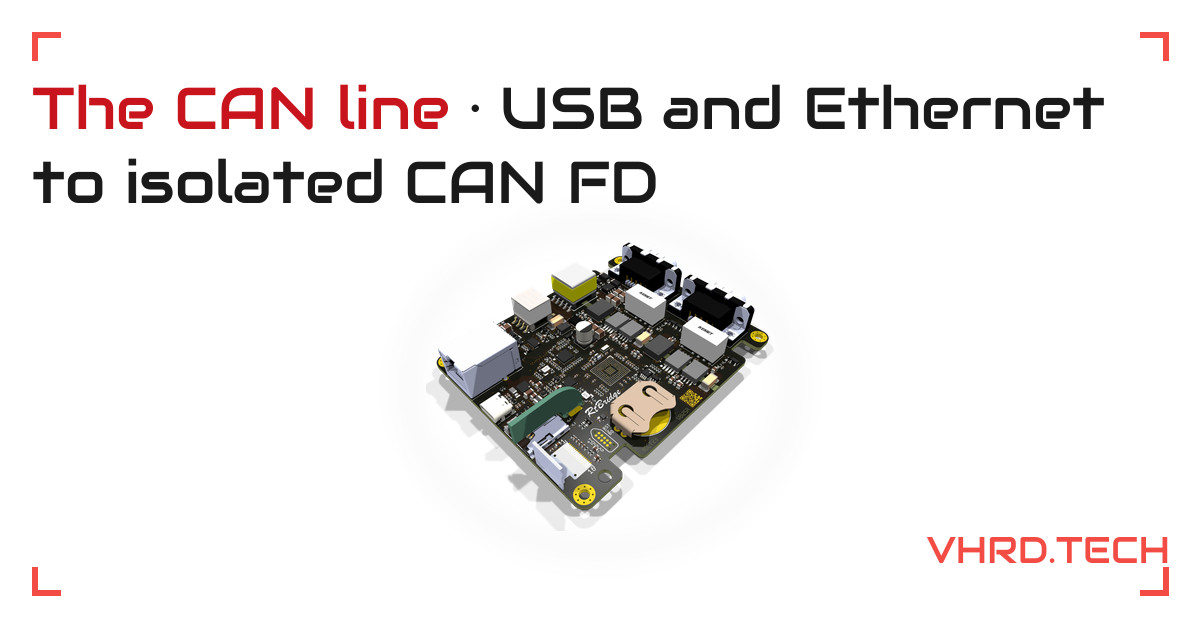
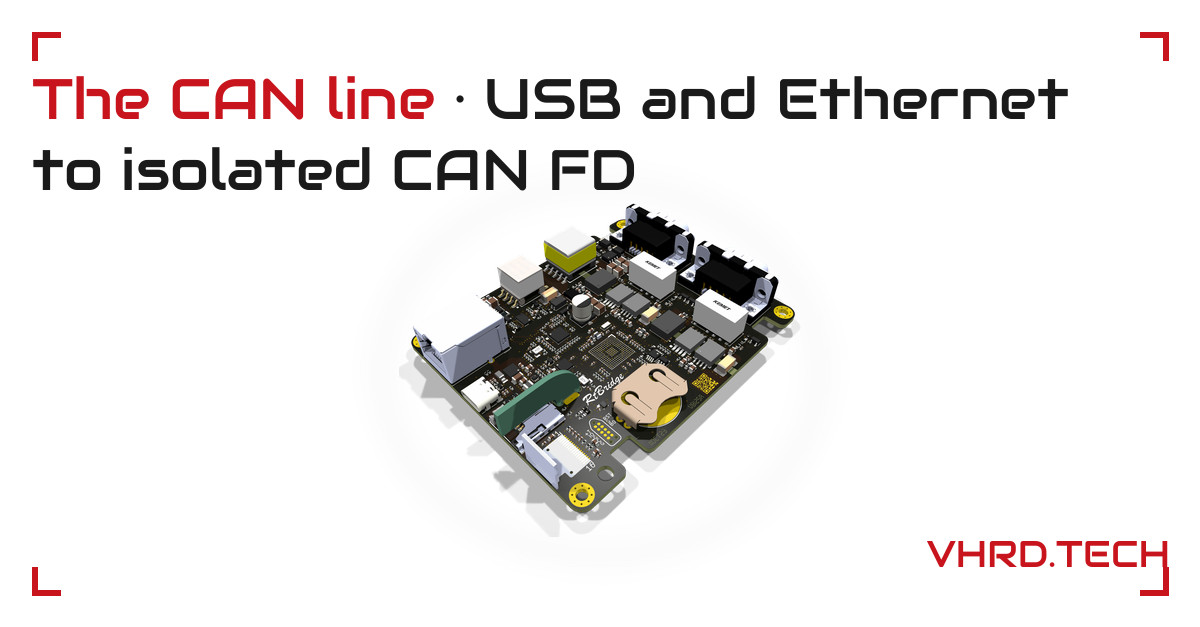
Share images, round 5: one red per image, board fills its own band
- One red per image, not two side by side: corners, wordmark and the
  headline's product name are all vhrd_brand's light --accent
  (#c8141c) on the JPEG, its dark value (#f24c44) on the PNG, instead
  of the name always in the light red regardless of which card it's
  on.
- The board now fills the actual space between the headline and the
  wordmark, not a fixed band sized for the longest headline on every
  page: fit_headline() measures each headline's own wrapped ink
  height, so a one-line headline (/software) leaves the board
  noticeably bigger instead of an empty gap below it. Every image's
  board grows over the previous pass (about 11-16% for the two-line
  headlines, 40% for /software's one-liner), while a still-clearly-
  visible gap stays between the headline and the board.
- The margins that clear the corner marks' own legs are trimmed to
  their safe minimum, to give the board as much of the frame's
  interior as the containment rules from the last two passes allow.

diff --git a/tools/og_images.py b/tools/og_images.py
@@ -60,10 +60,12 @@ BUDGET_KB = 1024
 JPEG_QUALITY = 90  # no subsampling (4:4:4) and not progressive, so a scraper that reads only the first bytes of
 # a progressive JPEG (or one that chokes on 4:2:0 chroma) still gets the whole, sharp image
 
-RED = (242, 76, 68, 255)  # vhrd_brand dark.red (#f24c44): the corner marks and the wordmark only, never text
-TEXT_RED = (0xc8, 0x14, 0x1c, 255)  # vhrd_brand --vhrd-red / light.accent (#c8141c): the headline's product
-# name, on every image alike (Roman, round 5, "one more round" pass, 6 Nov 2026) — a different red from the
-# corners' and wordmark's #f24c44, which stays theirs only.
+# One red per image, not two side by side: on the JPEG (white) everything red — corners, wordmark, the
+# headline's product name — is vhrd_brand's light-theme --vhrd-red/--accent; on the PNG (dark backgrounds)
+# everything red is the dark-theme --accent, already lightened for contrast there (Roman, round 5, "two reds"
+# pass, 6 Nov 2026).
+LIGHT_RED = (0xc8, 0x14, 0x1c, 255)  # --vhrd-red / light.accent (#c8141c)
+DARK_RED = (242, 76, 68, 255)  # dark.accent (#f24c44)
 INK = (26, 26, 26, 255)  # vhrd_brand light.text (#1a1a1a): the JPEG headline's body colour, solid, on white
 WHITE = (255, 255, 255, 255)  # the PNG headline's body colour, solid, with a soft dark shadow (SHADOW_* below)
 GLOW = (255, 255, 255, 16)  # a faint halo behind the board, just enough that a dark board's edge doesn't vanish
@@ -75,32 +77,34 @@ MARK_LEN, MARK_W = 28, 5  # the corner marks' leg length and thickness, like .fi
 # round 5, 6 Nov 2026).
 FRAME_MARGIN = 32
 # Everything — headline, board, wordmark — stays inside the corner-marked frame with its own margin, clear of
-# the corner marks' own legs too. The bottom margin is a little tighter than the top's: there is no headline
-# text to clear down there, only the wordmark's own row.
+# the corner marks' own legs too: both trimmed to the minimum that still clears those legs, to leave the board
+# as much of the frame's interior as possible (Roman, round 5, "board bigger" pass, 6 Nov 2026).
 CONTENT_PAD_X = 16
-CONTENT_PAD_Y_TOP = MARK_LEN + 10
-CONTENT_PAD_Y_BOTTOM = MARK_LEN + 4
+CONTENT_PAD_Y_TOP = MARK_LEN + 2
+CONTENT_PAD_Y_BOTTOM = MARK_LEN
 
 # The headline: Audiowide (the wordmark's face), its capital letters' ink flush with the left corners' own
 # outer edge (not an extra inset — "the D of Donguru" sits on the imaginary line the corner marks' vertical
-# strokes draw), wrapped to at most two lines at HEAD_TARGET_CAP ("no small print"; every headline below fits
-# two lines there, so there is no further shrink floor this round). The words up to " · " (the product
-# headlines below) are set in TEXT_RED; the rest is the body colour (AGENTS.md "Conventions", Roman, round 5,
-# 6 Nov 2026).
-HEAD_TARGET_CAP = 42
-HEAD_MIN_CAP = 40  # a floor, not reached by any headline below at the current width; kept for a future one
+# strokes draw), wrapped to at most two lines at HEAD_TARGET_CAP, the floor from "no small print" (every
+# headline below fits two lines there). The words up to " · " (the product headlines below) are set in that
+# image's one red (LIGHT_RED or DARK_RED above); the rest is the body colour (AGENTS.md "Conventions", Roman,
+# round 5, 6 Nov 2026).
+HEAD_TARGET_CAP = 40
+HEAD_MIN_CAP = 40
 HEAD_MAX_LINES = 2
 HEAD_LINE_PITCH_FACTOR = 1.25
-HEAD_BLOCK_H = 140  # reserved above the board, fixed across pages so the board sits at the same height on each
-HEAD_BOARD_GAP = 32  # a clearly visible gap: the headline sat right on top of the board before this (Roman,
-# round 5, "one more round" pass, 6 Nov 2026)
+HEAD_BLOCK_BUFFER = 4  # added to each headline's own measured ink height (fit_headline) rather than
+# reserving one worst-case height on every page: a one-line headline (/software) leaves the board that much
+# more room below it, instead of a dead gap (Roman, round 5, "board bigger" pass, 6 Nov 2026).
+HEAD_BOARD_GAP = 22  # a clearly visible gap (the headline sat right on top of the board two passes ago, at
+# 16): less than the 32 the previous pass used, traded for a bigger board, but still twice that original gap.
 
 # The board's own bounding box (the render's margin is transparent) is scaled to fit this box, centred
 # horizontally on the canvas and vertically in the band below the headline and above the wordmark, well inside
 # the HxH square a square crop keeps.
 SAFE_W = 580
-WORDMARK_H = 26  # 1.3x the wordmark's previous 20px (Roman, round 5, "one more round" pass, 6 Nov 2026)
-BOARD_WORDMARK_GAP = 6
+WORDMARK_H = 26  # 1.3x the wordmark's original 20px (Roman, round 5, 6 Nov 2026)
+BOARD_WORDMARK_GAP = 4
 # A soft dark shadow behind the white PNG headline (not an outline, which read as hollow), so it still reads on
 # a light background once a platform composites the transparency away.
 SHADOW_COLOR = (8, 8, 10, 170)
@@ -170,18 +174,18 @@ def board_render(board_dir, view):
     return im.crop(box)
 
 
-def wordmark_png(width, height):
-    """The VHRD.TECH wordmark (static/img/wordmark.svg), recoloured to a single red that reads on white and on
-    black alike, rasterised to the given pixel size with a transparent background, then cropped to its own ink
-    (not the raster canvas, which may carry a little padding) so the caller can align its right edge exactly."""
+def wordmark_png(width, height, red):
+    """The VHRD.TECH wordmark (static/img/wordmark.svg), recoloured to this image's one red, rasterised to the
+    given pixel size with a transparent background, then cropped to its own ink (not the raster canvas, which
+    may carry a little padding) so the caller can align its right edge exactly."""
     svg = (ROOT / "static/img/wordmark.svg").read_text()
-    svg = re.sub(r'fill="#[0-9a-fA-F]{6}"', f'fill="rgb{RED[:3]}"', svg)
+    svg = re.sub(r'fill="#[0-9a-fA-F]{6}"', f'fill="rgb{red[:3]}"', svg)
     png_bytes = cairosvg.svg2png(bytestring=svg.encode(), output_width=width, output_height=height)
     im = Image.open(io.BytesIO(png_bytes)).convert("RGBA")
     return im.crop(im.getbbox())
 
 
-def draw_corner_marks(canvas):
+def draw_corner_marks(canvas, red):
     """Each corner as one flush L: a horizontal and a vertical bar sharing a MARK_W x MARK_W square at the
     pivot, like .fig-frame's CSS corners (two overlapping bars, not two separately-capped lines, which left a
     notch at the outer corner instead of a clean square point; Roman, 6 Nov 2026)."""
@@ -190,10 +194,10 @@ def draw_corner_marks(canvas):
     for cx, cy, sx, sy in ((x0, y0, 1, 1), (x1, y0, -1, 1), (x0, y1, 1, -1), (x1, y1, -1, -1)):
         hx0, hx1 = sorted((cx, cx + sx * MARK_LEN))
         hy0, hy1 = sorted((cy, cy + sy * MARK_W))
-        d.rectangle([hx0, hy0, hx1, hy1], fill=RED)
+        d.rectangle([hx0, hy0, hx1, hy1], fill=red)
         vx0, vx1 = sorted((cx, cx + sx * MARK_W))
         vy0, vy1 = sorted((cy, cy + sy * MARK_LEN))
-        d.rectangle([vx0, vy0, vx1, vy1], fill=RED)
+        d.rectangle([vx0, vy0, vx1, vy1], fill=red)
 
 
 def font_for_cap_height(font_path, target_cap):
@@ -232,15 +236,15 @@ def wrap_headline(headline, font, max_width, max_lines):
     return lines[:max_lines] if len(lines) > max_lines else lines, len(lines) <= max_lines
 
 
-def draw_headline(canvas, font_path, headline, fill, accent, shadow=False):
-    """The headline in Audiowide: up to two lines at HEAD_TARGET_CAP (shrinking towards HEAD_MIN_CAP if one
-    somehow does not fit), the words up to " · " in accent (TEXT_RED), the rest in fill. The first line's
-    leading glyph's own ink — not its left side bearing — sits flush on the frame's left edge (the same line
-    the left corner marks' outer vertical edge draws), so it reads as "inside the frame" exactly, not inset
-    from it (Roman, round 5, "one more round" pass, 6 Nov 2026). shadow draws a soft dark halo behind the text
-    first (the PNG variant, for a light background), rather than an outline."""
+def fit_headline(font_path, headline):
+    """The Audiowide font, wrapped lines and left x (the first glyph's own ink, not its left side bearing,
+    flush with the frame's left edge — "the D of Donguru" on the left corners' outer vertical stroke, every
+    image) for this headline at HEAD_TARGET_CAP, shrinking towards HEAD_MIN_CAP if it somehow does not fit two
+    lines. Also the line pitch and the actual ink height of the wrapped block: a one-line headline (/software)
+    measures far less than a two-line one, so the caller can give the board that difference back rather than
+    reserving a worst-case height on every page (Roman, round 5, "board bigger" pass, 6 Nov 2026)."""
     fx0, _, fx1, _ = frame_box()
-    cy0 = content_box()[1]
+    scratch = ImageDraw.Draw(Image.new("RGBA", (4, 4)))
     cap = HEAD_TARGET_CAP
     while True:
         font = font_for_cap_height(font_path, cap)
@@ -255,12 +259,28 @@ def draw_headline(canvas, font_path, headline, fill, accent, shadow=False):
     # The first glyph's own left bearing (the gap PIL's draw origin leaves before the ink starts): subtract it
     # so the glyph's ink, not the nominal draw position, lands exactly on fx0.
     first_word = lines[0][0][1]
-    bearing = ImageDraw.Draw(canvas).textbbox((0, 0), first_word, font=font)[0]
+    bearing = scratch.textbbox((0, 0), first_word, font=font)[0]
     x_start = fx0 - bearing
+    line_pitch = round(font.size * HEAD_LINE_PITCH_FACTOR)
 
+    tops, bottoms = [], []
+    for i, line in enumerate(lines):
+        text = " ".join(w for _, w in line)
+        bbox = scratch.textbbox((x_start, i * line_pitch), text, font=font)
+        tops.append(bbox[1])
+        bottoms.append(bbox[3])
+    block_height = max(bottoms) - min(tops)
+
+    return font, lines, x_start, line_pitch, block_height
+
+
+def draw_headline(canvas, font, lines, x_start, line_pitch, headline, fill, accent, shadow=False):
+    """The headline already fit by fit_headline, painted at the top of the frame's interior: the words up to
+    " · " in accent (this image's one red), the rest in fill. shadow draws a soft dark halo behind the text
+    first (the PNG variant, for a light background), rather than an outline."""
+    cy0 = content_box()[1]
     dot_at = next((i for i, w in enumerate(headline.split(" ")) if w == "·"), None)
     space = font.getlength(" ")
-    line_pitch = round(font.size * HEAD_LINE_PITCH_FACTOR)
 
     def paint(draw_fn):
         y = cy0
@@ -284,9 +304,10 @@ def draw_headline(canvas, font_path, headline, fill, accent, shadow=False):
     paint(lambda x, y, word, colour: draw.text((x, y), word, font=font, fill=colour))
 
 
-def compose(board_dir, view, headline, font_path, headline_fill, accent, headline_shadow=False):
+def compose(board_dir, view, headline, font_path, headline_fill, red, headline_shadow=False):
     cx0, cy0, cx1, cy1 = content_box()
-    board_top = cy0 + HEAD_BLOCK_H + HEAD_BOARD_GAP
+    font, lines, x_start, line_pitch, head_h = fit_headline(font_path, headline)
+    board_top = cy0 + head_h + HEAD_BLOCK_BUFFER + HEAD_BOARD_GAP
     board_bottom_max = cy1 - WORDMARK_H - BOARD_WORDMARK_GAP
     safe_h = board_bottom_max - board_top
 
@@ -310,17 +331,17 @@ def compose(board_dir, view, headline, font_path, headline_fill, accent, headlin
     canvas.alpha_composite(glow)
 
     canvas.alpha_composite(board, (x, y))
-    draw_corner_marks(canvas)
+    draw_corner_marks(canvas, red)
 
     # The wordmark sits in its own row at the bottom of the frame's interior, its own ink flush with the right
     # corners' outer vertical edge (the same treatment as the headline's left edge, above), with a fixed gap
     # above the frame's bottom edge and below the board, so the two never touch (Roman, round 5, 6 Nov 2026).
     fx1 = frame_box()[2]
-    wm = wordmark_png(round(WORDMARK_H * 13424 / 1434), WORDMARK_H)
+    wm = wordmark_png(round(WORDMARK_H * 13424 / 1434), WORDMARK_H, red)
     wm_x, wm_y = fx1 - wm.width, cy1 - wm.height
     canvas.alpha_composite(wm, (wm_x, wm_y))
 
-    draw_headline(canvas, font_path, headline, headline_fill, accent, headline_shadow)
+    draw_headline(canvas, font, lines, x_start, line_pitch, headline, headline_fill, red, headline_shadow)
 
     return canvas, (x, y, x + board.width, y + board.height)
 
@@ -367,14 +388,14 @@ def main():
         sys.exit(f"{W}x{H} is {W / H:.3f}:1, under the {MIN_CARD_RATIO}:1 LinkedIn needs for its large card")
     OUT.mkdir(parents=True, exist_ok=True)
     for name, board_dir, view, _, headline in IMAGES:
-        img, bbox = compose(board_dir, view, headline, font_path, INK, TEXT_RED)
+        img, bbox = compose(board_dir, view, headline, font_path, INK, LIGHT_RED)
         # the square crop LinkedIn and messengers make from a 1.91:1 card: the middle H x H of the canvas
         square_left, square_right = (W - H) // 2, (W - H) // 2 + H
         if bbox[0] < square_left or bbox[2] > square_right:
             sys.exit(f"{name}: the board reaches x {bbox[0]}-{bbox[2]}, outside the {H}px square crop ({square_left}-{square_right})")
         # The transparent PNG, headline solid white with a soft dark shadow so it reads on X's light theme too.
         # Kept for twitter:image.
-        png_img, _ = compose(board_dir, view, headline, font_path, WHITE, TEXT_RED, headline_shadow=True)
+        png_img, _ = compose(board_dir, view, headline, font_path, WHITE, DARK_RED, headline_shadow=True)
         write_image(OUT / f"{name}.png", png_img, "PNG", optimize=True)
         # The same frame flattened onto white, headline solid near-black, for og:image: quality ~90, 4:4:4
         # chroma (subsampling=0) and not progressive, so LinkedIn and Facebook show it sharp on the white card

diff --git a/FEATURES.md b/FEATURES.md
@@ -45,7 +45,7 @@ Status: ✅ done · 🚧 in progress · 📋 planned · 💡 idea · 🐛 bug
 
 - ✅ ASSET-1 board-renders: `just renders` (`scripts/render_boards.py`, uv) rebuilds `static/img/boards/<bnnn>-<slug>/` from the newest revision of each board's KiCad project in `~/git/hw`: hero (whole board, 3/4 angle, with margin), detail (tighter 3/4 close-up), top and bottom views via `kicad-cli pcb render` (transparent, raytraced, black solder mask / white silkscreen forced on a temp copy so `~/git/hw` is never touched), cropped tight, 2400px PNG source (not shipped) plus AVIF/WebP at 480/640/1280/1920px (`--variants` makes missing widths from the PNGs without KiCad), with a `manifest.toml` per board (product, revision, source file, hw git hash, per-view alt text). Silkscreen fonts are checked against `fc-list` before rendering, failing loudly on a missing one. 3D model library paths are machine-local env vars (`KICAD6..10_3DMODEL_DIR`, `VHRD_3DMODEL_DIR`), not committed. A board whose `.kicad_pcb` has no `(stackup ...)` at all (B198) gets a plain 2-layer one inserted on the temp copy before the colour patch, so it still comes out black-mask; a board with inner copper layers and no stackup fails loudly instead of guessing one. Covers the front-page boards (Donguru, Pinsmith, B125, B135), B129, B133, B107 FlexyRJ45, B146 DB-9 to Nano-Fit and B198 J-Link to Tag-Connect; board numbers as arguments (`just renders b129 b133`) render only those. The rest of `~/git/hw`'s boards are a later task.
 
-- ✅ ASSET-2 og-images: `just og` (`tools/og_images.py`, uv, Pillow and cairosvg, vhrd_brand's Audiowide ttf) writes the link-preview images under `static/img/og/`: a board's hero render, cropped to its own content, below a large Audiowide headline, inside a 1200x627 canvas (1.91:1, never 1200x630, which falls under the 1.91:1 ratio LinkedIn needs for its large card). Four red corner marks sit near the card's own edges (an even inset from the full canvas, not the square crop), enclosing the headline, the board and the wordmark with a margin, clear of the marks' own legs; the headline's first line's own ink sits flush with the left corners' outer edge (Audiowide, 42px cap height, up to two lines), the product name before " · " in `--vhrd-red` (`#c8141c`, not the corners'/wordmark's `#f24c44`); the board is scaled to fit a fixed band with a clear gap below the headline and above the wordmark's own row (a first pass sat the board right under the text), so the board sits at the same height on every page and stays visible in the 627x627 square crop LinkedIn's small organic-post thumbnail and messengers make from it too — the wider corner frame and the headline are cut by that narrower crop, which is fine, since only the board needs to survive it; a faint halo sits tight to the board; the wordmark (about 1.3x its first-round size) keeps a fixed gap from the board and its own ink sits flush with the right corners' outer edge (round 5, Roman, 6 Nov 2026). Written twice per page, each truecolour and each name carrying a version so LinkedIn, Facebook and Telegram, which cache a preview by its image URL, fetch the new ones: a lossless RGBA PNG on a transparent background (`default-4.png`, ...; no palette quantization, which once came out blurry and posterised on LinkedIn's Post Inspector, Roman, 6 Nov 2026), headline solid white with a soft dark shadow (not an outline, which read hollow), for `twitter:image` (X reads it first and shows it on its own light or dark theme); and a JPEG (quality 90, 4:4:4 chroma, baseline not progressive) flattened onto white (`default-4.jpg`, ...), headline solid near-black, for `og:image` (LinkedIn and Facebook show a card on white and fill a transparent image's alpha with a dull grey instead, round 4, Roman, 6 Nov 2026). `templates/base.html` sets `author`, `og:site_name`, `og:locale`, `og:image`, `og:image:secure_url`, `og:image:type`, `og:image:width`/`height`/`alt` and `twitter:card` (`summary_large_image`) / `twitter:image` on every page, from `config.toml`'s `extra.og_image` / `extra.twitter_image` (the Donguru render) or a page's own (/donguru, /pinsmith, /can, /software, /work, each its own board and headline). Every page's meta description and `og:description` are 100-125 characters, the home page's naming no product. `tools/check_pages.py` checks every page's `og:image` is an absolute URL to a real 1200x627 truecolour JPEG at or above the 1.91:1 ratio matching its own width/height/secure_url meta, `twitter:image` a different, real 1200x627 truecolour PNG with an alpha channel, a non-empty alt that does not name a background colour, the description's length, and that no `og:*`/`twitter:*`/`description` meta tag appears twice. `just og --check` composites the default and /donguru images onto Facebook's and X's own card backgrounds, and at LinkedIn's small ~160px thumbnail size, into `target/shots/og5-*.png`, for a by-eye look (round 5, Roman, 6 Nov 2026)
+- ✅ ASSET-2 og-images: `just og` (`tools/og_images.py`, uv, Pillow and cairosvg, vhrd_brand's Audiowide ttf) writes the link-preview images under `static/img/og/`: a board's hero render, cropped to its own content, below a large Audiowide headline, inside a 1200x627 canvas (1.91:1, never 1200x630, which falls under the 1.91:1 ratio LinkedIn needs for its large card). Four corner marks sit near the card's own edges (an even inset from the full canvas, not the square crop), enclosing the headline, the board and the wordmark with a margin, clear of the marks' own legs; the headline's first line's own ink sits flush with the left corners' outer edge (Audiowide, 40px cap height, up to two lines), the product name before " · " in that image's one red; the board fills the band between the headline and the wordmark's own row (`fit_headline()` measures each headline's actual ink height, so a one-line headline leaves it more room than a two-line one, instead of a fixed worst-case band leaving an empty strip), with a clear gap kept either way (a first pass sat the board right under the text), and stays visible in the 627x627 square crop LinkedIn's small organic-post thumbnail and messengers make from it too — the wider corner frame and the headline are cut by that narrower crop, which is fine, since only the board needs to survive it; a faint halo sits tight to the board; the wordmark (about 1.3x its first-round size, in that image's one red) keeps a fixed gap from the board and its own ink sits flush with the right corners' outer edge. One red per image, not two: corners, wordmark and headline name are all `--vhrd-red`/light `--accent` (`#c8141c`) on the JPEG, dark `--accent` (`#f24c44`) on the PNG (round 5, Roman, 6 Nov 2026). Written twice per page, each truecolour and each name carrying a version so LinkedIn, Facebook and Telegram, which cache a preview by its image URL, fetch the new ones: a lossless RGBA PNG on a transparent background (`default-4.png`, ...; no palette quantization, which once came out blurry and posterised on LinkedIn's Post Inspector, Roman, 6 Nov 2026), headline solid white with a soft dark shadow (not an outline, which read hollow), for `twitter:image` (X reads it first and shows it on its own light or dark theme); and a JPEG (quality 90, 4:4:4 chroma, baseline not progressive) flattened onto white (`default-4.jpg`, ...), headline solid near-black, for `og:image` (LinkedIn and Facebook show a card on white and fill a transparent image's alpha with a dull grey instead, round 4, Roman, 6 Nov 2026). `templates/base.html` sets `author`, `og:site_name`, `og:locale`, `og:image`, `og:image:secure_url`, `og:image:type`, `og:image:width`/`height`/`alt` and `twitter:card` (`summary_large_image`) / `twitter:image` on every page, from `config.toml`'s `extra.og_image` / `extra.twitter_image` (the Donguru render) or a page's own (/donguru, /pinsmith, /can, /software, /work, each its own board and headline). Every page's meta description and `og:description` are 100-125 characters, the home page's naming no product. `tools/check_pages.py` checks every page's `og:image` is an absolute URL to a real 1200x627 truecolour JPEG at or above the 1.91:1 ratio matching its own width/height/secure_url meta, `twitter:image` a different, real 1200x627 truecolour PNG with an alpha channel, a non-empty alt that does not name a background colour, the description's length, and that no `og:*`/`twitter:*`/`description` meta tag appears twice. `just og --check` composites the default and /donguru images onto Facebook's and X's own card backgrounds, and at LinkedIn's small ~160px thumbnail size, into `target/shots/og5-*.png`, for a by-eye look (round 5, Roman, 6 Nov 2026)
 
 ## PREVIEW: publishing
 

diff --git a/AGENTS.md b/AGENTS.md
@@ -239,25 +239,31 @@ per page (no blog, no articles), so `author` is the same for every page and ther
     earlier pass framed a narrower square in the middle, letting the headline bleed past it and the wordmark
     overlap the board. LinkedIn's narrower 1:1 centre crop cuts the corners and the headline — intended, since
     only the board needs to stay inside that one (above; Roman, round 5, 6 Nov 2026).
+  - **One red per image, not two.** The corners, the wordmark and the headline's product name are all the
+    same colour: vhrd_brand's light-theme `--vhrd-red`/`--accent` (`#c8141c`) on the JPEG, its dark-theme value
+    (`#f24c44`) on the PNG — not a fixed red on every image regardless of which card it sits on (Roman, round
+    5, "one red" pass, 6 Nov 2026).
   - **The headline** sits at the top of the frame's interior, its first line's leading glyph's own ink — not
     the font's left side bearing — flush with the left corners' outer vertical edge, the same line their
-    strokes draw ("the D of Donguru" exactly on it, every image; Roman, round 5, "one more round" pass, 6 Nov
-    2026). Up to two lines, Audiowide at a 42px cap height (every headline below fits two lines there, so there
-    is no further shrink floor this round). The words up to a " · " separator are set in `--vhrd-red` /
-    light-theme `--accent` (`#c8141c`), a different red from the corners' and wordmark's `#f24c44`; the rest is
-    in the body colour.
-  - The board is scaled to fit well inside a fixed band below the headline, with a clearly visible gap between
-    them (a first pass sat the board right under the text) — a reserved band height, the same on every page, so
-    the board sits at the same height across them — and above the wordmark's own row, centred horizontally on
-    the canvas, with margin either side of the 627×627 square crop LinkedIn and messengers make from a 1.91:1
-    card, so the whole board stays in view there too; the script refuses to write a file where it wouldn't.
+    strokes draw ("the D of Donguru" exactly on it, every image; Roman, round 5, 6 Nov 2026). Up to two lines,
+    Audiowide at a 40px cap height, the floor from "no small print" (every headline below fits two lines
+    there). The words up to a " · " separator are in that image's one red (above); the rest is in the body
+    colour.
+  - **The board is scaled to fill the band between the headline and the wordmark's row, not a fixed height
+    reserved for the worst case on every page.** `fit_headline()` measures each headline's own wrapped ink
+    height — a two-line one leaves it less room than a one-line one (/software) — so the board is bigger
+    wherever the headline takes less space, with a clearly visible gap kept between them either way (a first
+    pass sat the board right under the text; reserving one fixed band for every page, after that fix, then
+    left the board a visibly empty strip below a short headline instead of growing into it). It is centred
+    horizontally on the canvas, with margin either side of the 627×627 square crop LinkedIn and messengers make
+    from a 1.91:1 card, so the whole board stays in view there too, and above the wordmark's own row; the
+    script refuses to write a file where it wouldn't.
   - A faint white halo (blurred, low opacity, tight to the board) sits behind it: close to invisible on a white
     or light card, and just enough to keep a dark board's edge from vanishing into a black one.
-  - A red VHRD.TECH wordmark (from `static/img/wordmark.svg`, recoloured to the one red so it reads on white
-    and on black alike; about 1.3× its first-round size), its own ink — not the raster canvas's edge — flush
-    with the right corners' outer vertical edge, same treatment as the headline's left edge, sits in its own
-    row at the bottom of the frame's interior, with a fixed gap above the frame's bottom edge and below the
-    board, so the two never touch.
+  - A VHRD.TECH wordmark (from `static/img/wordmark.svg`, in that image's one red; about 1.3× its first-round
+    size), its own ink — not the raster canvas's edge — flush with the right corners' outer vertical edge, same
+    treatment as the headline's left edge, sits in its own row at the bottom of the frame's interior, with a
+    fixed gap above the frame's bottom edge and below the board, so the two never touch.
   - Each image stays a few hundred KB, under the script's 1 MB budget: LinkedIn and Facebook accept files up to
     5-8 MB, but a smaller one loads faster.
   - Run it again after a change to a board's hero render, a headline, the wordmark or the script itself; `just

diff --git a/CHANGELOG.md b/CHANGELOG.md
@@ -4,7 +4,7 @@
 
 ### Added
 
-- Share images, round 5 (ASSET-2 og-images): a large Audiowide headline above the board on every `og:image`/`twitter:image`, wrapped to at most two lines, the product name before " · " in `--vhrd-red` (`#c8141c`), not the corners'/wordmark's `#f24c44`. `/donguru` gets its own image, split off the site default. The canvas stays exactly 1200x627 (1.91:1): 1200x630, considered this round, falls to 1.905:1, under the 1.91:1 LinkedIn needs to show its large card at all, so it was dropped — `tools/check_pages.py` now asserts the ratio explicitly, not only the exact pixel size. The four red corner marks sit near the card's own edges (not a narrower square in the middle), enclosing the headline, the board and the wordmark with a margin: the headline's first line and the wordmark's own ink sit flush with the left and right corners' outer edges respectively (not inset further, and not their font/raster bounding boxes — the visible ink itself); LinkedIn's narrower 1:1 centre crop still cuts the corners and the headline, which is fine since only the board needs to survive it. The PNG headline is solid white with a soft shadow, not the hollow outline a first pass used; the board sits in a fixed band with a clearly visible gap below the headline (a first pass sat it right under the text), and the wordmark is about 1.3x bigger. Every page's description is now 100-125 characters, not 100-160 (LinkedIn warns under 100 and truncates near 125). File names bump to `-4` so LinkedIn, Facebook and Telegram refetch instead of showing a cached preview.
+- Share images, round 5 (ASSET-2 og-images): a large Audiowide headline above the board on every `og:image`/`twitter:image`, wrapped to at most two lines, the product name before " · " in one red, not two side by side — `--vhrd-red`/light `--accent` (`#c8141c`) on the JPEG, dark `--accent` (`#f24c44`) on the PNG, the same colour the corners and the wordmark use on that image. `/donguru` gets its own image, split off the site default. The canvas stays exactly 1200x627 (1.91:1): 1200x630, considered this round, falls to 1.905:1, under the 1.91:1 LinkedIn needs to show its large card at all, so it was dropped — `tools/check_pages.py` now asserts the ratio explicitly, not only the exact pixel size. The four corner marks sit near the card's own edges (not a narrower square in the middle), enclosing the headline, the board and the wordmark with a margin: the headline's first line and the wordmark's own ink sit flush with the left and right corners' outer edges respectively (not inset further, and not their font/raster bounding boxes — the visible ink itself); LinkedIn's narrower 1:1 centre crop still cuts the corners and the headline, which is fine since only the board needs to survive it. The PNG headline is solid white with a soft shadow, not the hollow outline a first pass used. The board now fills the band between the headline and the wordmark, sized from each headline's own measured height rather than a fixed worst-case reservation, so a one-line headline (/software) leaves it noticeably bigger instead of an empty gap; every image's board is bigger than the first pass's, with a still-clear gap kept below the headline. The wordmark is about 1.3x bigger. Every page's description is now 100-125 characters, not 100-160 (LinkedIn warns under 100 and truncates near 125). File names bump to `-4` so LinkedIn, Facebook and Telegram refetch instead of showing a cached preview.
 - /faq (SITE-16 faq-page): site-wide questions and answers from the approved FAQ draft, as `<details>` items grouped under three headings, The products, Working with us, The site, each with a stable anchor (`/faq/#cookies`, `#open-source`, `#shipping`, `#buy`...) that opens the right item on its own, no script needed. "Which computers do the tools work on?" names the real tools: IOWeaver, RockFace, `dg`, `cnt`, `ww` and `bedrock-lint` all run on Linux, Windows and macOS. Linked from the footer next to Privacy.
 - `LICENSE-MIT` and `LICENSE-APACHE` for the repo's code (templates, CSS, JS, `tools/`, `scripts/`, the `vhrd_notify` service); the content stays © VHRD.TECH AS, all rights reserved, and the IBM Plex fonts keep their own OFL notice.
 - Roman's photo next to "Who makes it" on /about (SITE-17 about-photo; Roman, 5 Nov 2026, it is already public on GitHub). AVIF and WebP at its native 460 px, EXIF and other metadata stripped, next to the founder paragraph on wider screens and centred above it on a phone.
